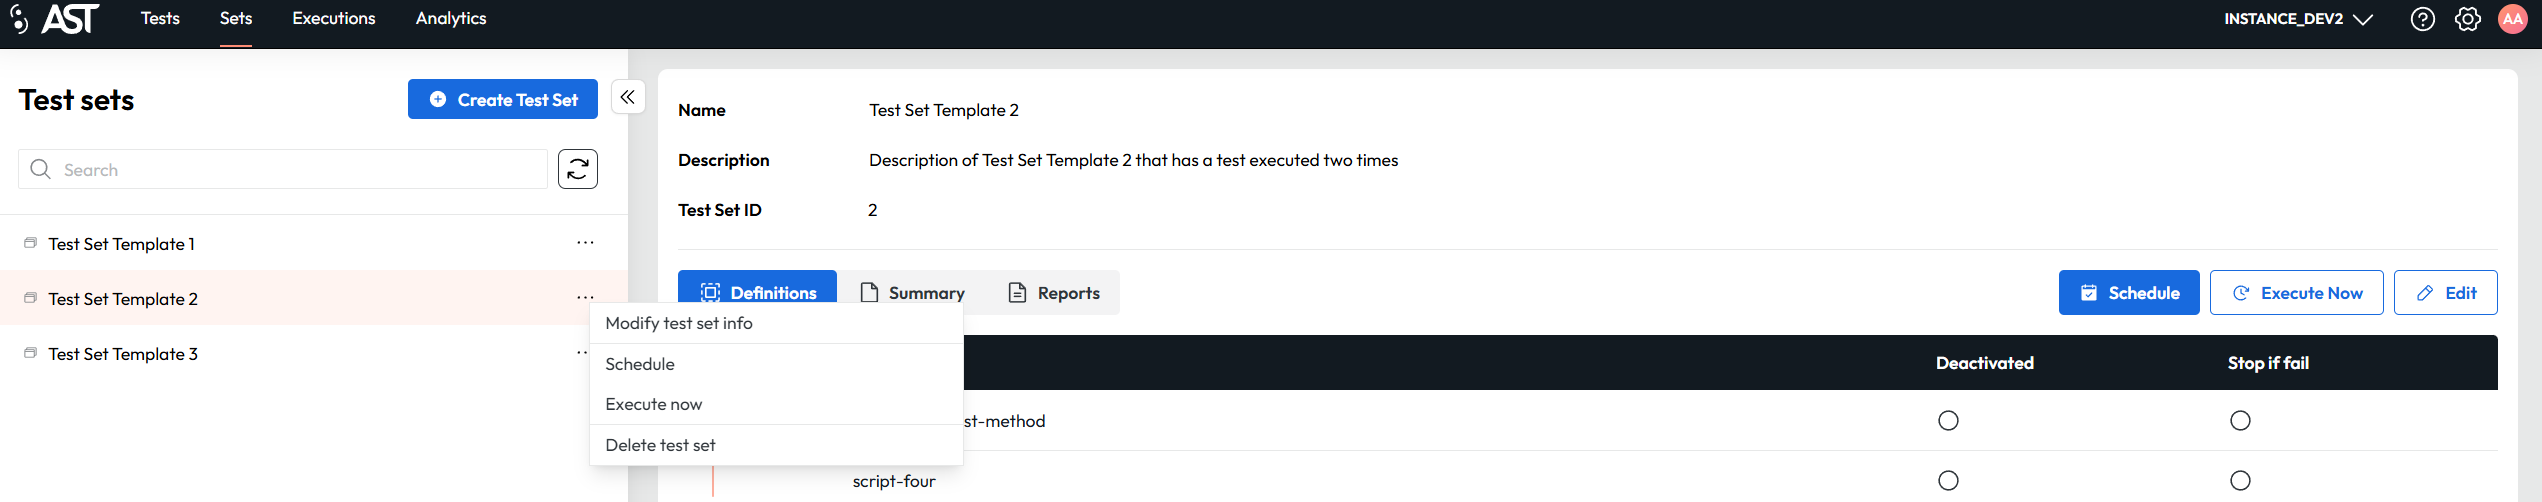
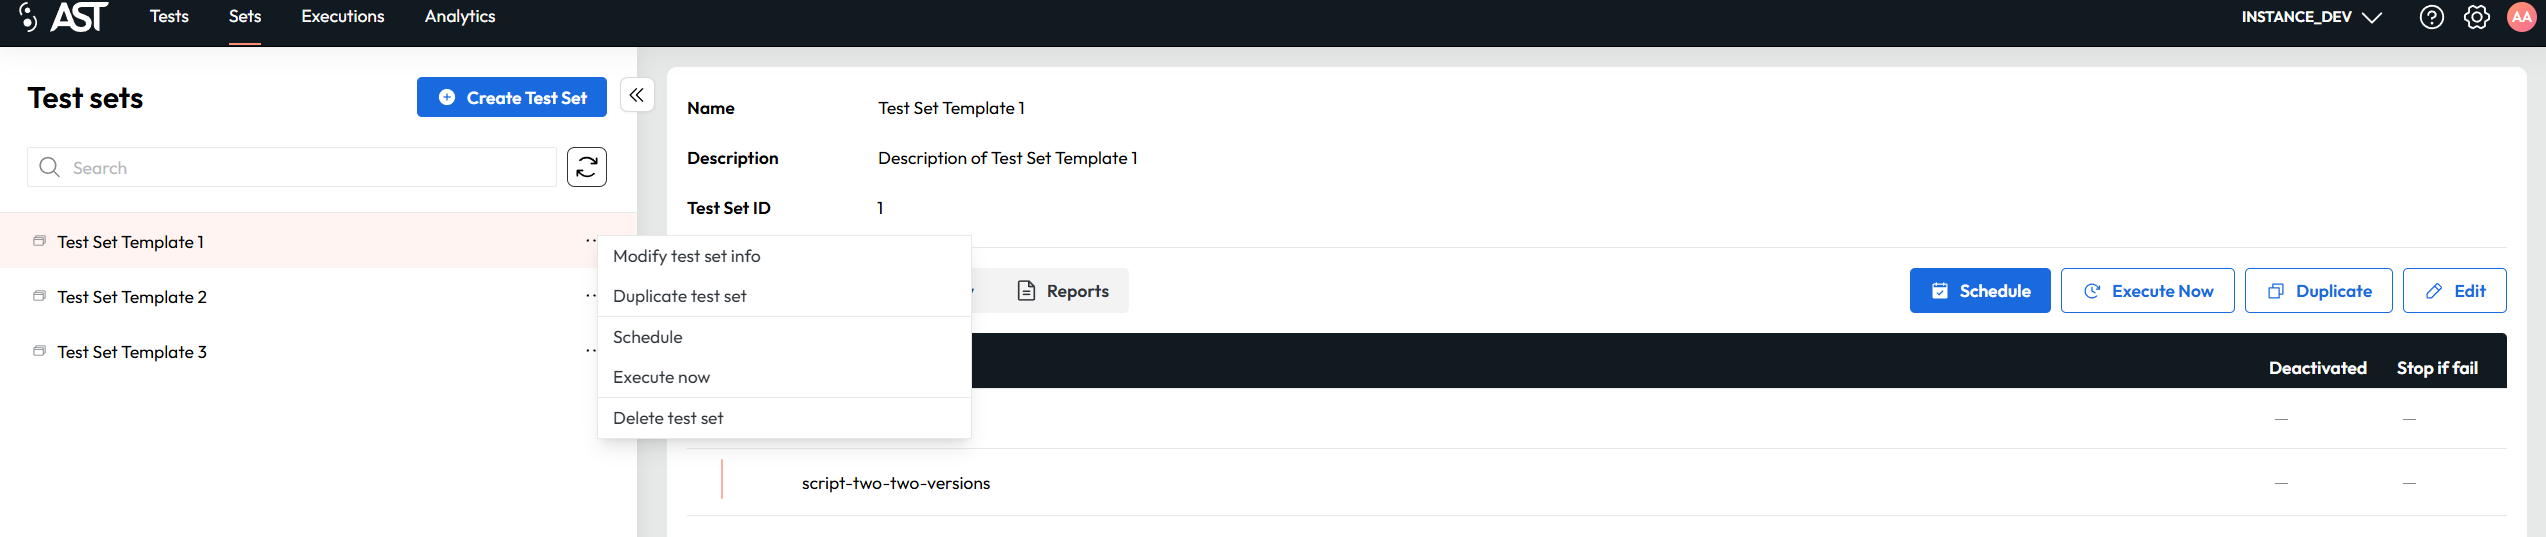
added duplication of test sets

diff --git a/docs/test_sets.md b/docs/test_sets.md
@@ -17,12 +17,13 @@ An important feature of this menu is the context menu, which appears when a user
 ![sets.png](assets/ControlPanelDocu/sets.png)
 <figcaption>Display of the context menu</figcaption>
 
-| Action               | Description                                          |
-|----------------------|------------------------------------------------------|
-| Modify Test Set Info | Allows user to change the name                       |
-| Schedule             | Allows the user to schedule an execution of test set |
-| Execute Now          | Immediate execution of test set                      |
-| Delete Test Set      | Deletes test set                                     |
+| Action               | Description                                                                                  |
+|----------------------|----------------------------------------------------------------------------------------------|
+| Modify Test Set Info | Allows user to change the name                                                               |
+| Duplicate Test Set   | Creates a copy of the test set, see [Duplicate test set](#duplicate-test-set)                |
+| Schedule             | Allows the user to schedule an execution of test set                                         |
+| Execute Now          | Immediate execution of test set                                                              |
+| Delete Test Set      | Deletes test set                                                                             |
 
 The primary content area is divided into two key sections. At the top, a metadata panel displays the Name, Description, and unique Test Set ID. This provides quick, high-level context about the selected set. Below this, a tabbed interface further organizes the information. 
 
@@ -33,8 +34,8 @@ The primary content area is divided into two key sections. At the top, a metadat
 The Definitions tab shown in the previous image lists all the individual test cases included in the test set. For each test case, it displays its name, execution sequence, and whether it is Deactivated.
 This organized table gives the user a clear view of which tests are part of the set and their execution order.
 
-You can also see three buttons: `Schedule`, `Execute Now` and `Edit`. `Schedule` is used for scheduling the test set for a certain time. 
-`Execute Now` executes the testcase immediately. `Edit` button allows you to edit the test set: Adding/removing testcases, changing order of testcases (individually or several at once) etc.
+You can also see four buttons: `Schedule`, `Execute Now`, `Duplicate` and `Edit`. `Schedule` is used for scheduling the test set for a certain time. 
+`Execute Now` executes the testcase immediately. `Duplicate` creates a copy of the test set, see [Duplicate test set](#duplicate-test-set). `Edit` button allows you to edit the test set: Adding/removing testcases, changing order of testcases (individually or several at once) etc.
 
 When in edit mode, the following options are available:
 
@@ -279,6 +280,33 @@ Then you choose add to existing test set and then select the test set to which y
 
 ![Adding test to set](assets/ControlPanelDocu/test_case_add_set.png)
 <figcaption>Dialog for adding test cases to existing set</figcaption>
+
+### Duplicate test set
+You can create a copy of an existing test set, for example to use it as a starting point for a similar test set. There are two ways to do this:
+
+- Click the `Duplicate` button in the [Definitions tab](#definitions-tab) of the open test set. The button is not shown while the test set is in edit mode.
+- Click the three dots next to the test set in the repository tree and select *Duplicate test set* from the [context menu](#context-menu).
+
+![test-set-duplicate-button.png](assets/ControlPanelDocu/test-set-duplicate-button.png)
+<figcaption>Duplicate button in the Definitions tab</figcaption>
+
+The copy is created immediately, without a dialog. When it is created, a confirmation message is shown and the new test set is opened.
+
+The copy is named *Copy of* followed by the name of the original test set, for example *Copy of Regression*. If a test set with this name already exists, a number is added, for example *Copy of Regression (1)*, *Copy of Regression (2)* and so on. The comparison ignores upper and lower case.
+
+![test-set-duplicate-result.png](assets/ControlPanelDocu/test-set-duplicate-result.png)
+<figcaption>Newly created copy of a test set with the confirmation message</figcaption>
+
+The copy contains the following from the original test set:
+
+- The description
+- All test cases in the same order, with the same [sequence of execution](#sequence-of-execution) (steps and parallel steps)
+- The **Deactivated** and [Stop if fail](#stop-execution-on-failure) settings and the selected instance of each test case
+
+The execution history of the original test set, including its scheduled executions and reports, is not copied.
+
+!!!info "Info"
+    The copy is always made from the last saved version of the test set. To rename the copy or change its description, use *Modify test set info* in the [context menu](#context-menu).
 
 
 ## Scheduling and Executing Test Sets

diff --git a/docs/release_notes.md b/docs/release_notes.md
@@ -8,6 +8,7 @@
 - Added Step and Stop if fail columns to the execution report table. [Read more](test_sets.md#stop-execution-on-failure)
 - Multiple test cases can be selected in the test set definitions (Ctrl/Cmd + click, Shift + click) and moved together with the new *Set step* action. [Read more](test_sets.md#moving-multiple-test-cases-at-once)
 - Multiple selected test cases in the test set definitions can now be moved together with drag and drop. [Read more](test_sets.md#dragging-multiple-test-cases)
+- Test sets can now be duplicated with the new *Duplicate* button in the Definitions tab or the *Duplicate test set* context menu action. [Read more](test_sets.md#duplicate-test-set)
 - Administrators can now configure how AST execution statuses are mapped to Xray statuses. [Read more](jira_xray.md#status-mapping)
 - Administrators can now configure which Xray Test Run custom fields are filled with the test steps table and the report link. [Read more](jira_xray.md#custom-fields)
 - Added Xray sync status filters and Xray sync status sorting to the Executions table.
